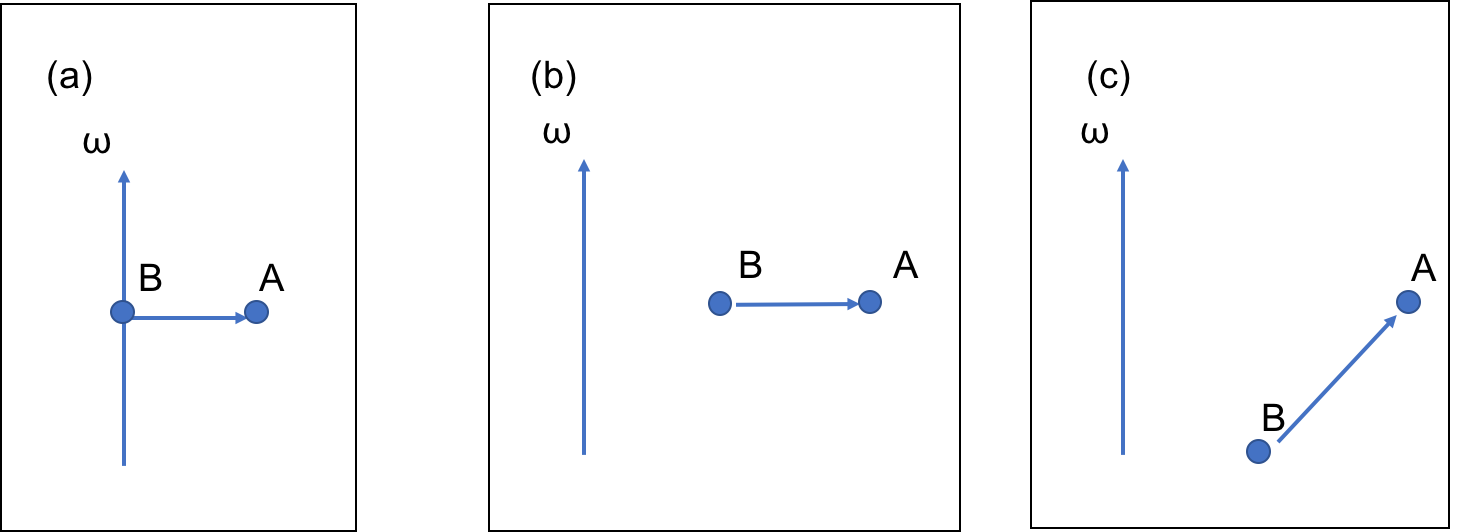
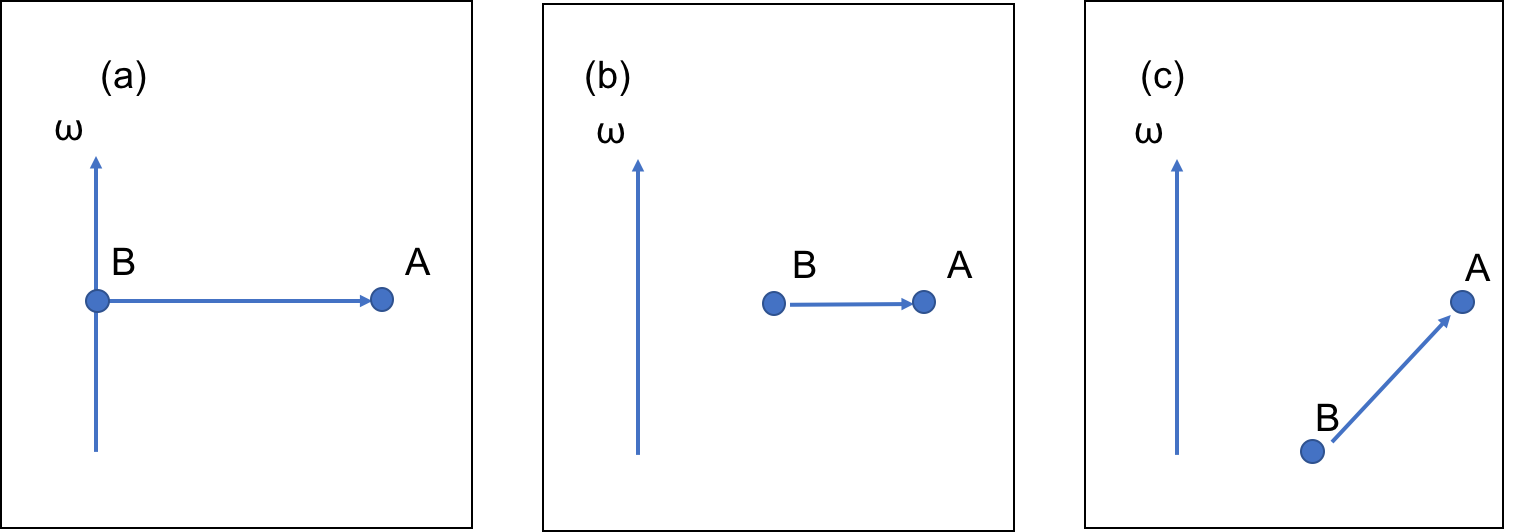
Fix error in 2.13

diff --git a/3ddynamics.tex b/3ddynamics.tex
@@ -334,11 +334,11 @@ Given in book.
 \end{itemize}
 
 \subsection*{Challenge}
-Consider a rotating rigid body with angular velocity $\omega=\hat{k}$. Two points, ``A'' and ``B'' are chosen on the rigid body. The book describes how it is possible to calculate the velocity of point ``A'' given the velocity of point ``B''. By calculating the velocity of point ``A'' in the 3 cases below, prove that the velocity of ``A'' can be calculated accurately irrespective of choice of the location of ``B''.
+Consider a rotating rigid body with angular velocity $\omega=\hat{k}$. Two points, ``A'' and ``B'' are chosen on the rigid body. The book describes how it is possible to calculate the velocity of point ``A'' given the velocity of point ``B''. Prove that the velocity of ``A'' can be calculated accurately irrespective of choice of the location of ``B'', either algebraically or by calculation of the velocity of point ``A'' in each of the 3 cases below.
 
 \includegraphics[width=15cm]{rigid_body_vectors}
 
-a) $\bm{B} = \hat{k}$,              $\bm{A} = \hat{i} + \hat{k}$\\
+a) $\bm{B} = \hat{k}$,              $\bm{A} = 2 \hat{i} + \hat{k}$\\
 b) $\bm{B} = \hat{i} + \hat{k}$,    $\bm{A} = 2 \hat{i} + \hat{k}$\\
 c) $\bm{B} = \hat{i}$,              $\bm{A} = 2 \hat{i} + \hat{k}$
 
